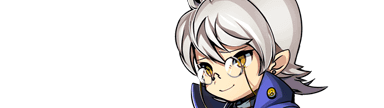
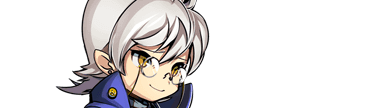
画像コミット（各キャラ）

diff --git a/program/game/scene/gm_scene_test2.cpp b/program/game/scene/gm_scene_test2.cpp
@@ -20,8 +20,8 @@ void Test2::initialzie() {
 	img_board_->rot_q_ = tnl::Quaternion::RotationAxis({ 1, 0, 0 }, tnl::ToRadian(90));
 	img_board_->pos_ = { 0,0,0 };
 
-	player_ = dxe::Mesh::CreatePlaneMV({ (float)128, (float)48, 0 });
-	player_->setTexture(dxe::Texture::CreateFromFile("graphics/c1_anim_down.png"));
+	player_ = dxe::Mesh::CreatePlaneMV({ (float)64, (float)64, 0 });
+	player_->setTexture(dxe::Texture::CreateFromFile("graphics/unit/ally/c1_board_img.png"));
 	player_->rot_q_ = tnl::Quaternion::RotationAxis({ 1, 0, 0 }, tnl::ToRadian(50));
 	player_->pos_ = { 20,44,20 };
 

diff --git a/program/game/gm_board.h b/program/game/gm_board.h
@@ -6,7 +6,8 @@ public:
 	Board() {
 
 	}
-	~Board();
+	~Board(){};
+
 
 
 
